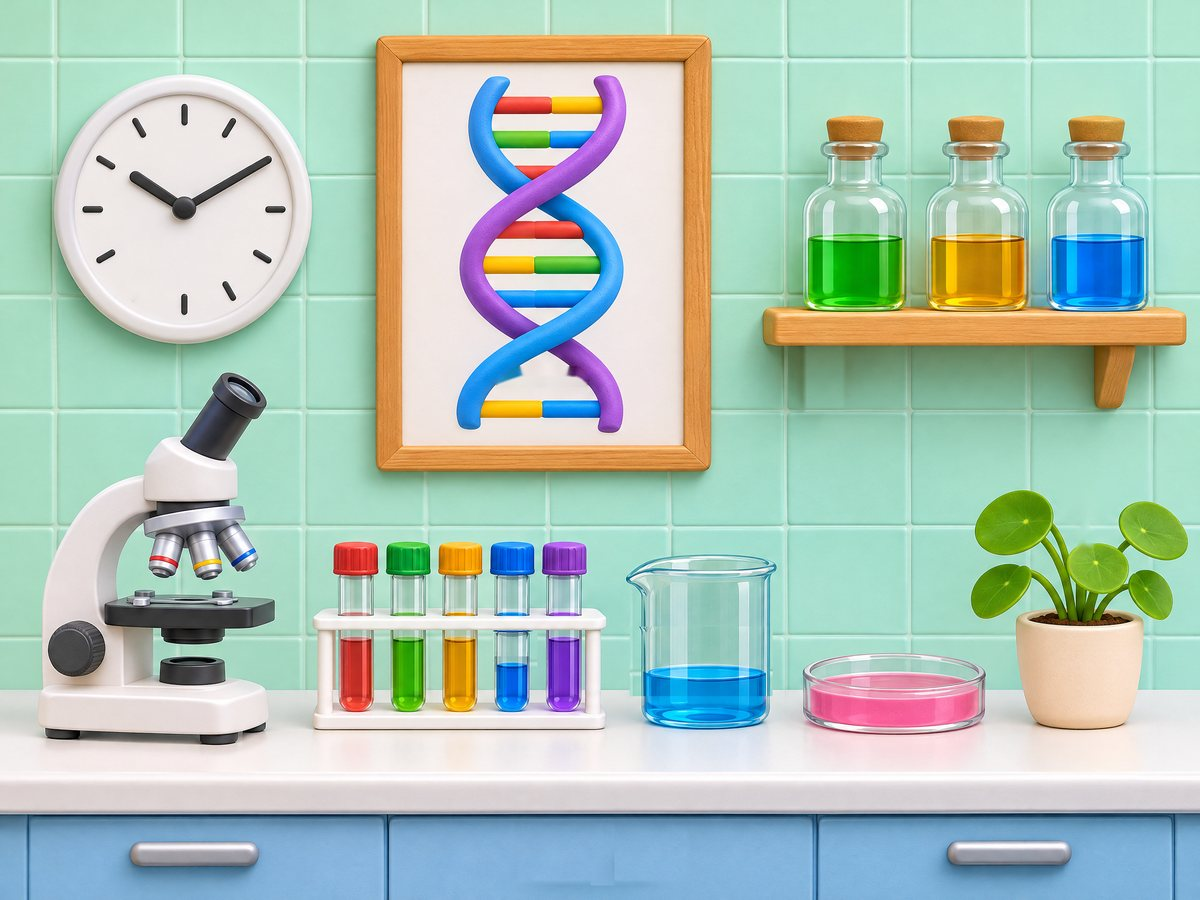
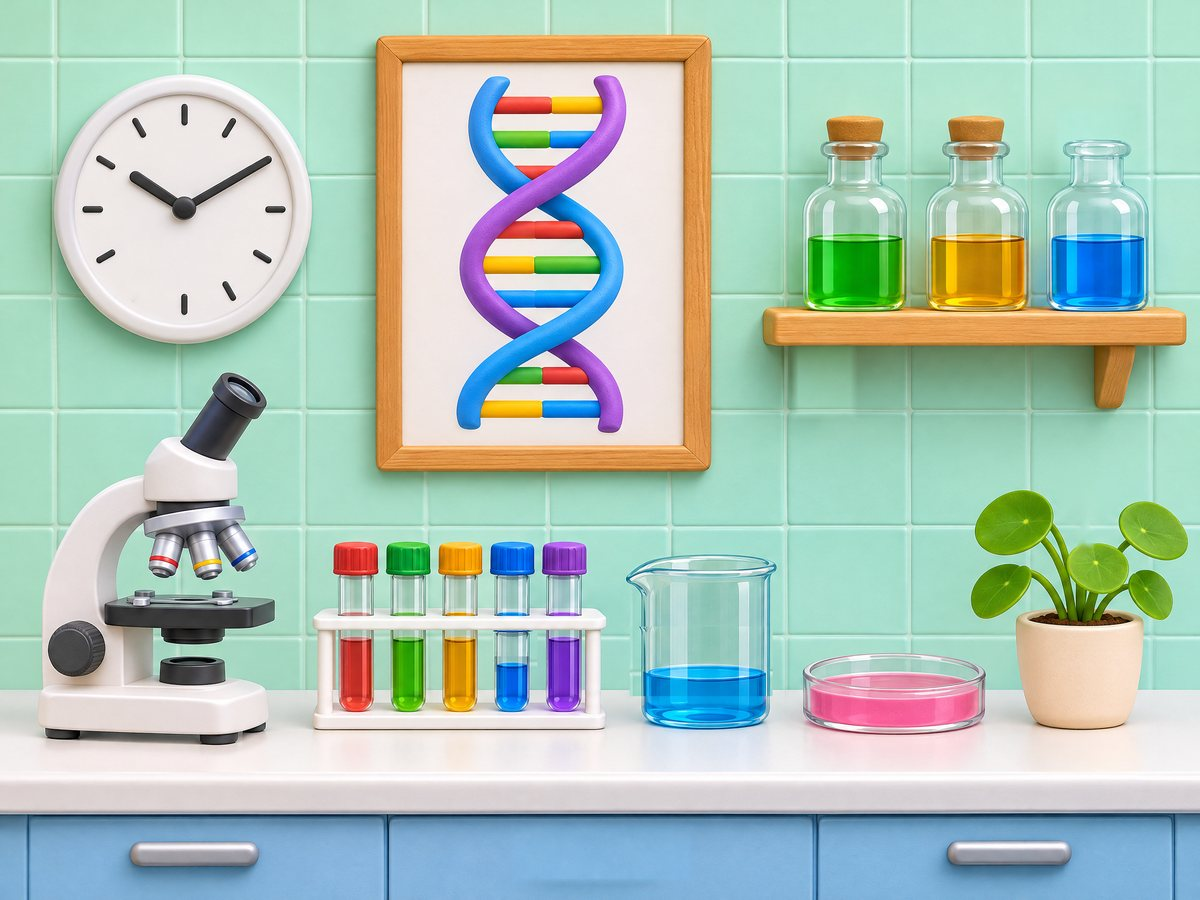
틀린그림 v3: 지운 곳은 힉스필드 편집본에서 그 자리만 붙여 티 안 나게(서랍 손잡이·받침대·코르크), v=13

Changed region(s): [[0.8633, 0.1244, 0.9558, 0.2178], [0.6475, 0.3733, 0.7092, 0.4667], [0.4008, 0.4044, 0.4933, 0.4356]]

diff --git a/app.js b/app.js
@@ -15,7 +15,7 @@ let cleanups = [];
 const onCleanup = f => cleanups.push(f);
 
 const C = { teal: '#0E9F8E', coral: '#EF5350' };
-const V = '?v=12';
+const V = '?v=13';
 const GAMES = [
   { id: 'spot', code: 'EXP-01', icon: 'icon_spot', bg: '#E2F1FF', title: '틀린그림찾기', desc: '실험실 그림 두 장에서 다른 곳 7개 찾기', time: '약 5–7분' },
   { id: 'pattern', code: 'EXP-02', icon: 'icon_pattern', bg: '#FFF1DC', title: '같은 DNA 패턴 찾기', desc: '견본과 같은 색깔 순서의 DNA 고르기', time: '약 4–5분' },
@@ -167,7 +167,7 @@ function done() {
 // 좌표는 400×300 기준 (그림 1200×900)
 const DIFFS = [
   { x: 46, y: 97, r: 16, name: '시계 7시 눈금' },
-  { x: 181, y: 125, r: 18, name: '포스터 DNA 가로대' },
+  { x: 366, y: 45, r: 16, name: '오른쪽 병 코르크' },
   { x: 275, y: 126, r: 15, name: '선반 왼쪽 받침대' },
   { x: 172, y: 216, r: 17, name: '파란 시험관 물 높이' },
   { x: 234, y: 224, r: 24, name: '비커 물 높이' },

diff --git a/index.html b/index.html
@@ -12,10 +12,10 @@
 <link rel="preconnect" href="https://fonts.gstatic.com" crossorigin>
 <link rel="stylesheet" href="https://fonts.googleapis.com/css2?family=IBM+Plex+Mono:wght@500;700&display=swap">
 <link rel="stylesheet" href="https://cdn.jsdelivr.net/gh/fonts-archive/Paperlogy/Paperlogy.css">
-<link rel="stylesheet" href="style.css?v=12">
+<link rel="stylesheet" href="style.css?v=13">
 </head>
 <body>
 <div id="app"></div>
-<script src="app.js?v=12"></script>
+<script src="app.js?v=13"></script>
 </body>
 </html>

diff --git a/hf/build_assets.py b/hf/build_assets.py
@@ -37,71 +37,43 @@ def hue_shift(arr, box, h_from, h_to, h_new, s_min=0.25, v_min=0.15):
 
 
 def make_spot():
-    """v2(어렵게): 색 바꾸기 대신 '없어진 것·모양' 7곳. 다른 곳은 원본 픽셀 그대로."""
+    """v3: 7곳 (색 변경 없음). 지우기는 힉스필드 편집본(spot_edit_v1)에서 그 자리만 가져와 붙임 → 지운 티가 안 남.
+    코드로 만든 것: 시계 7시 눈금 · 파란 시험관 물 높이 · 비커 물 높이 · 화분 맨 위 잎
+    편집본에서 가져온 것: 가운데 서랍 손잡이 · 선반 왼쪽 받침대 · 오른쪽 병 코르크"""
     a = np.array(Image.open(os.path.join(RAW, 'spot_base_v1.png')).convert('RGB'))
+    e = np.array(Image.open(os.path.join(RAW, 'spot_edit_v1.png')).convert('RGB'))
     b = a.copy()
 
-    def hsv_mask(box, cond):
+    def paste_from_edit(box, feather=14):
+        nonlocal b
         x0, y0, x1, y1 = box
-        sub = b[y0:y1, x0:x1]
-        hsv = cv2.cvtColor(sub, cv2.COLOR_RGB2HSV_FULL).astype(np.float32)
-        h, s_, v = hsv[..., 0] * 360 / 255, hsv[..., 1] / 255, hsv[..., 2] / 255
-        m = np.zeros(b.shape[:2], np.uint8)
-        m[y0:y1, x0:x1] = cond(h, s_, v).astype(np.uint8) * 255
-        return m
-
-    def inpaint(mask, grow=5, r=9):
-        nonlocal b
-        if grow: mask = cv2.dilate(mask, np.ones((grow, grow), np.uint8))
-        b = cv2.inpaint(b, mask, r, cv2.INPAINT_TELEA)
-
-    # 1) 시계 7시 눈금 없애기
-    m = np.zeros(b.shape[:2], np.uint8); cv2.circle(m, (271, 562), 24, 255, -1); inpaint(m, 0, 7)
-    # 2) 포스터 DNA 초록·빨강 가로대 하나 없애기
-    rung = hsv_mask((955, 698, 1160, 758), lambda h, s_, v: (s_ > .30) & (((h > 80) & (h < 170)) | (h < 22) | (h > 345)))
-    rung = cv2.dilate(rung, np.ones((5, 5), np.uint8))
-    strand = hsv_mask((940, 690, 1180, 770), lambda h, s_, v: (s_ > .35) & (h > 185) & (h < 310))   # 파랑·보라 가닥은 보호
-    rung[strand > 0] = 0
-    inpaint(rung, 0, 5)
-    # 3) (아래 clone 함수 정의 + 파란 시험관 물 높이)
-    def clone(dst, src_dx, src_dy, feather=10):
-        nonlocal b
-        x0, y0, x1, y1 = dst
-        patch = a[y0 + src_dy:y1 + src_dy, x0 + src_dx:x1 + src_dx].astype(np.float32)
         hh, ww = y1 - y0, x1 - x0
         w = np.ones((hh, ww), np.float32)
         for i in range(feather):
             t = (i + 1) / (feather + 1)
             w[i, :] = np.minimum(w[i, :], t); w[-1 - i, :] = np.minimum(w[-1 - i, :], t)
             w[:, i] = np.minimum(w[:, i], t); w[:, -1 - i] = np.minimum(w[:, -1 - i], t)
-        b[y0:y1, x0:x1] = (b[y0:y1, x0:x1] * (1 - w[..., None]) + patch * w[..., None]).astype(np.uint8)
-    # 파란 시험관 물 높이 낮추기: 랙 위 빈 유리 줄을 아래로 이어 붙이고 수면을 50px 내림
+        b[y0:y1, x0:x1] = (b[y0:y1, x0:x1] * (1 - w[..., None]) + e[y0:y1, x0:x1] * w[..., None]).astype(np.uint8)
+
+    # 1) 시계 7시 눈금 없애기
+    m = np.zeros(b.shape[:2], np.uint8); cv2.circle(m, (271, 562), 24, 255, -1)
+    b = cv2.inpaint(b, m, 7, cv2.INPAINT_TELEA)
+    # 2~4) 편집본에서: 서랍 손잡이 · 선반 왼쪽 받침대 · 오른쪽 병 코르크
+    paste_from_edit((990, 1592, 1356, 1716))
+    paste_from_edit((1540, 655, 1670, 815))
+    paste_from_edit((2050, 196, 2225, 352))
+    # 5) 파란 시험관 물 높이 낮추기
     tx0, tx1, S, top = 960, 1046, 50, 1222
     src = b.copy()
     b[top + S:top + 30 + S, tx0:tx1] = src[top:top + 30, tx0:tx1]
     b[top:top + S, tx0:tx1] = src[1112:1112 + S, tx0:tx1]
-    # 4) 가운데 서랍 손잡이 없애기
-    clone((1000, 1590, 1173, 1716), -170, 0, 10)
-    clone((1173, 1590, 1346, 1716), 160, 0, 10)
-    clone((1150, 1590, 1196, 1716), -170, 0, 0)   # 두 조각 이음매는 깨끗한 쪽으로 한 번 더
-    # 5) 왼쪽 선반 받침대 없애기: 타일 한 칸 옆(오른쪽 235px)의 벽을 그대로 옮겨 붙임
-    x0, y0, x1, y1, dx = 1562, 668, 1648, 805, 235
-    patch = a[y0:y1, x0 + dx:x1 + dx].astype(np.float32)
-    w = np.ones((y1 - y0, x1 - x0), np.float32)
-    f = 8
-    for i in range(f):
-        t = (i + 1) / (f + 1)
-        w[:, i] = np.minimum(w[:, i], t); w[:, -1 - i] = np.minimum(w[:, -1 - i], t); w[-1 - i, :] = np.minimum(w[-1 - i, :], t)
-    b[y0:y1, x0:x1] = (b[y0:y1, x0:x1] * (1 - w[..., None]) + patch * w[..., None]).astype(np.uint8)
-
-    # 6) 비커 물 높이 낮추기 (빈 유리 줄을 아래로 늘리고 수면을 내림)
+    # 6) 비커 물 높이 낮추기
     bx, by = P(520, 460)
     x0, x1 = bx + 40, bx + 318
     shift = 70
     src = b.copy()
     b[by + 165 + shift: by + 300, x0:x1] = src[by + 165: by + 300 - shift, x0:x1]
     b[by + 165: by + 165 + shift, x0:x1] = src[by + 95: by + 95 + shift, x0:x1]
-
     # 7) 화분 맨 위 잎 하나 없애기
     px, py = P(820, 390)
     sub = b[py: py + 330, px: px + 466]
